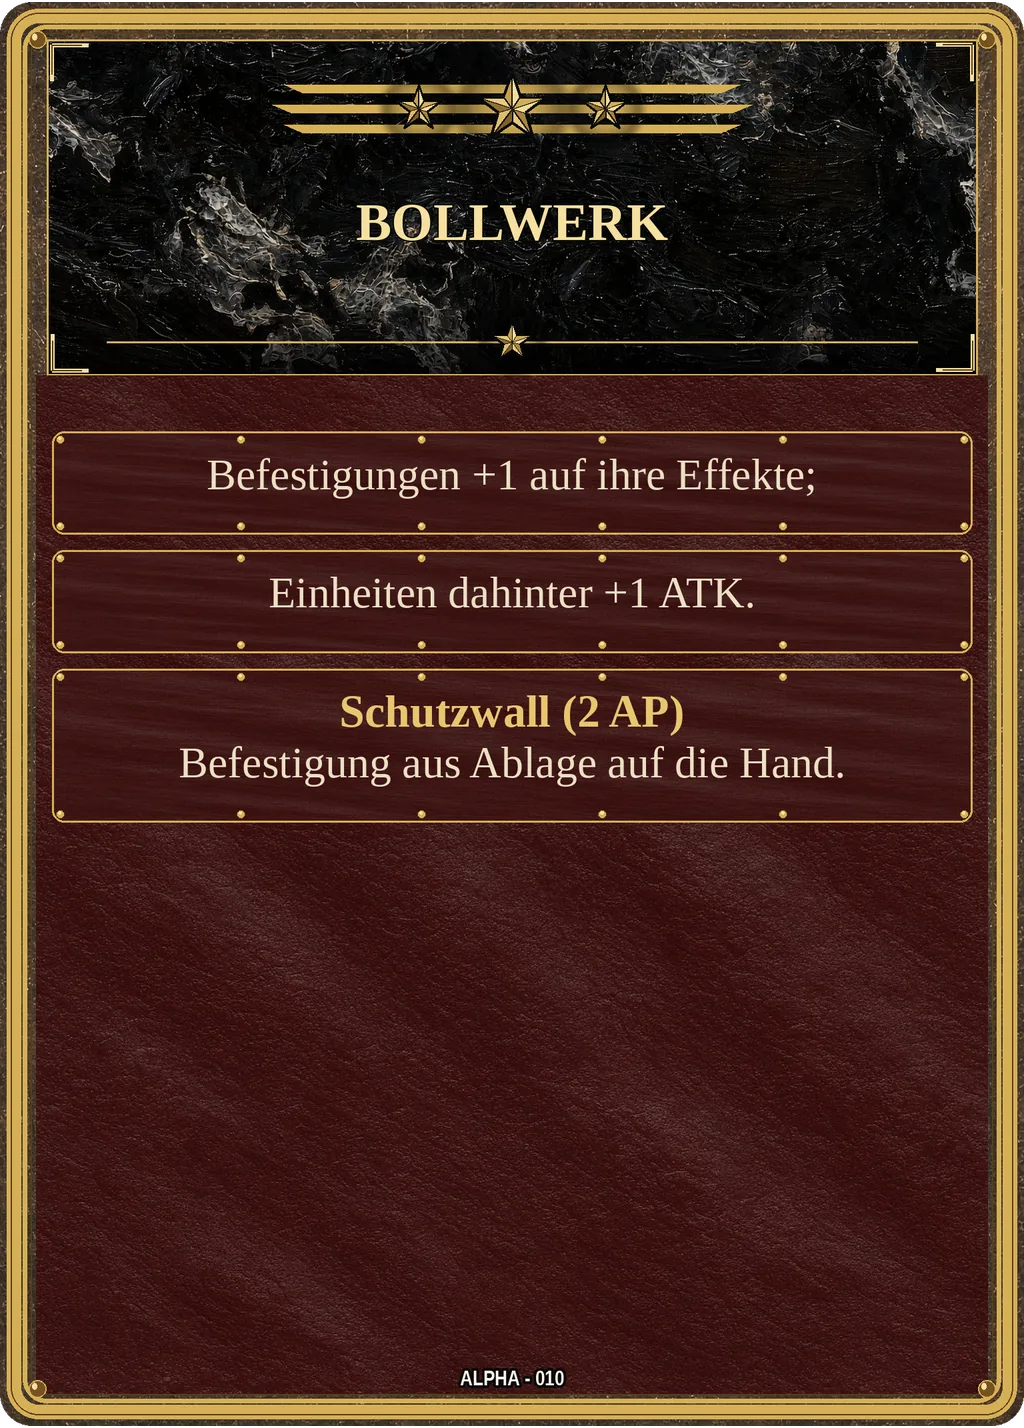
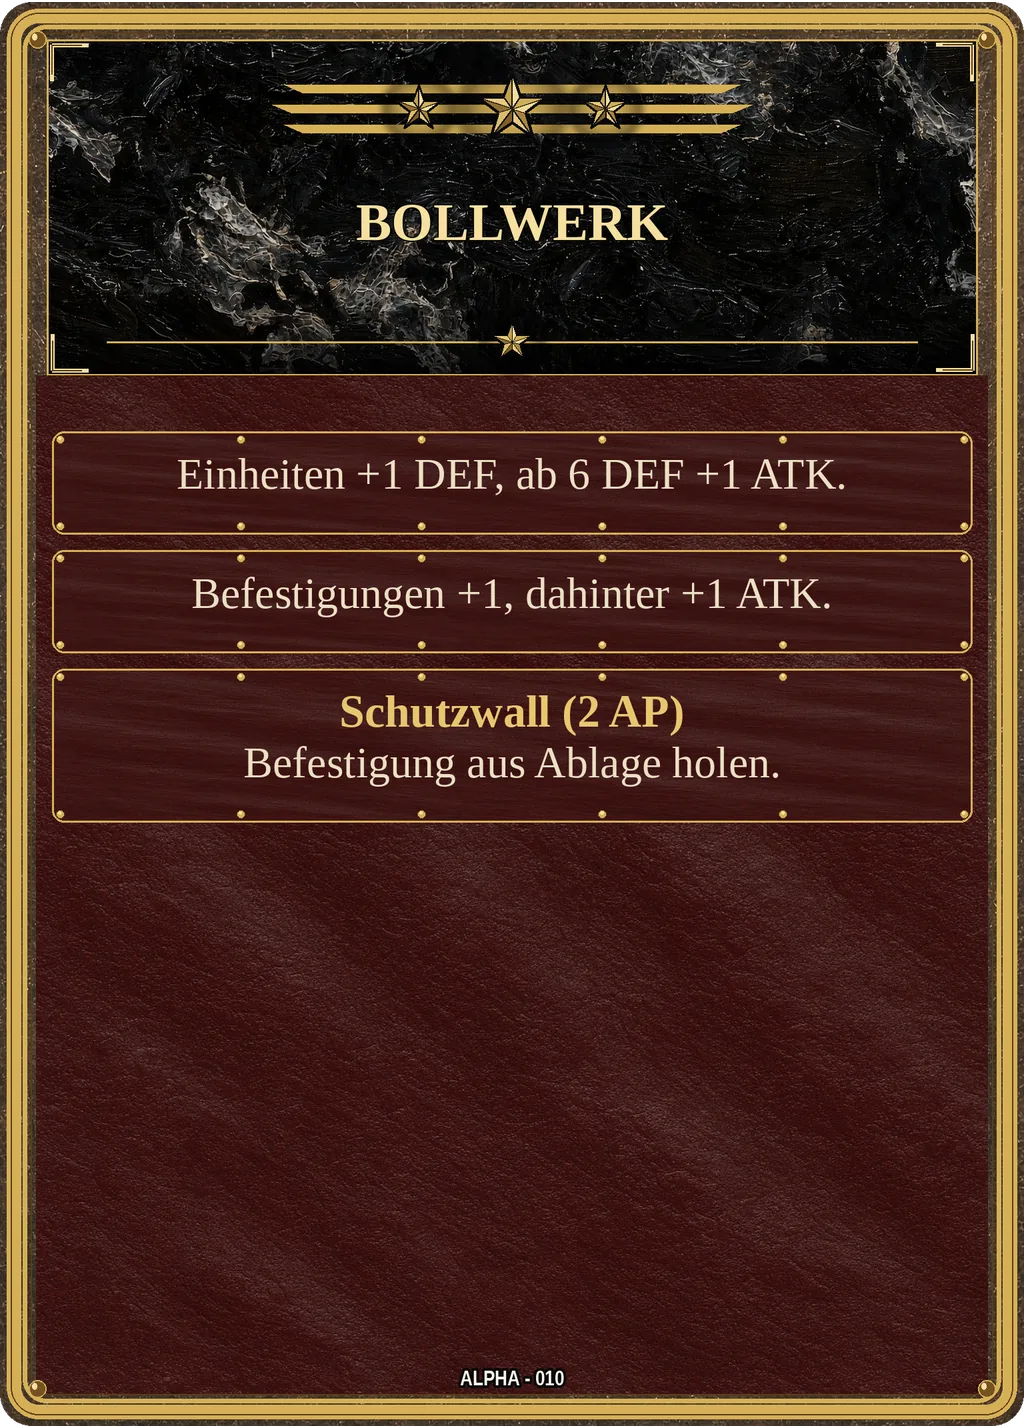
t285 Version 0.6e: VERSION, version.js, file_version_info 0.6.4.0, Hilfe/README/LIESMICH/Docs, CHANGELOG 0.6e, docs/balance/BALANCE_T285.md (Nutzungsraten, vorher/nachher), Doktrin-Flächen Bollwerk/Sicherer Nachschub neu gerendert; Cache alpha46a

Changed region(s): [[0.1562, 0.3081, 0.8125, 0.3697], [0.1562, 0.5238, 0.8125, 0.5546], [0.1875, 0.4006, 0.8125, 0.4314]]

diff --git a/Division_Command/web/index.html b/Division_Command/web/index.html
@@ -6,7 +6,7 @@
   <meta name="apple-mobile-web-app-capable" content="yes">
   <meta name="mobile-web-app-capable" content="yes">
   <meta name="apple-mobile-web-app-status-bar-style" content="black-translucent">
-  <title>Division Command 0.6d Alpha</title>
+  <title>Division Command 0.6e Alpha</title>
   <link rel="manifest" href="manifest.json">
   <meta name="theme-color" content="#12140f">
   <link rel="stylesheet" href="css/app.css?v=t265">
@@ -26,7 +26,7 @@
   <link rel="stylesheet" href="css/ui-system.css?v=t280b">
   <link rel="stylesheet" href="css/ui-screens.css?v=t281">
   <link rel="stylesheet" href="css/ui-table.css?v=alpha44a">
-  <link rel="stylesheet" href="css/table-hud.css?v=alpha45a">
+  <link rel="stylesheet" href="css/table-hud.css?v=alpha46a">
   <style>
     /* Erster Frame: Logo und Startknopf unsichtbar, Version noch nicht */
     .title-brand .ver-big { display: none !important; }
@@ -47,7 +47,7 @@
   <template id="match-tpl">
   <div id="app">
     <header class="topbar">
-      <h1>DIVISION COMMAND <span class="ver">0.6d α</span></h1>
+      <h1>DIVISION COMMAND <span class="ver">0.6e α</span></h1>
       <div class="hud-center">
         <div class="hud-scn"><span id="hud-scn">Gefecht</span><span class="nowplay" id="nowplay"></span></div>
         <div class="meta" id="turnmeta">Lobby</div>
@@ -178,7 +178,7 @@
   <audio id="bgm" autoplay preload="auto" src="assets/audio/menue/Division%20Command%20(Remastered).wav"></audio>
   <audio id="bgm-battle" preload="auto"></audio>
   <div id="kick-veil"><p id="kick-msg">Viel Glück</p></div>
-  <div id="dc-version">Alpha 0.6d</div>
+  <div id="dc-version">Alpha 0.6e</div>
 
   <div id="title-root" class="boot-intro">
       <div class="title-world" id="title-world" aria-hidden="true">
@@ -191,7 +191,7 @@
       </div>
       <div class="title-brand">
         <img class="title-logo" src="assets/title-logo.png?v=6" alt="Division Command" width="1381" height="507">
-        <p class="sub ver-big" hidden>Alpha 0.6d</p>
+        <p class="sub ver-big" hidden>Alpha 0.6e</p>
       </div>
     <div class="title-panel" id="menu-panel">
       <div id="scr-boot" class="screen on splash">
@@ -282,7 +282,7 @@
 
       <div id="scr-library" class="screen">
         <h1 class="page-title">BIBLIOTHEK</h1>
-        <p class="tiny" id="lib-build">Stand 0.6d</p>
+        <p class="tiny" id="lib-build">Stand 0.6e</p>
         <p class="tiny lib-hint">Klick = große Ansicht · Doppelklick = eine Kopie ins Deck · im Deck: Doppelklick legt zurück. Kopien: Gold 1× · Silber 2× · Bronze 4× · 2 verschiedene Doktrinen.</p>
         <div class="lib-wrap">
           <div class="lib-main">
@@ -524,7 +524,7 @@
             </div>
 <button type="button" data-hilfe="stand">Entwicklungsstand</button>
             <div class="hilfe-sub" data-for="stand">
-              <button type="button" data-jump="version">Version 0.6d</button>
+              <button type="button" data-jump="version">Version 0.6e</button>
               <button type="button" data-jump="stand-engine">Regeln & Engine</button>
               <button type="button" data-jump="karten">Karten & Grafik</button>
               <button type="button" data-jump="stand-bot">Bot & Balance</button>
@@ -772,8 +772,8 @@
 
             <article class="hilfe-page dossier" id="hilfe-stand">
               <p class="tiny">Stand 12.&nbsp;November&nbsp;2026, nachgezählt im Code auf <code>main</code> nach t270 (Analyse t265, Kartenreparatur t267, Balance und Eindeutigkeit t268, einheitliche Schrift t270, Analyse t271). Alle Zahlen stammen aus Katalog, Tests und Messdateien im Repo.</p>
-              <h2 id="version">Version 0.6d Alpha</h2>
-              <p>Gesetzte Version 0.6d (Tag v0.6d vom 13.&nbsp;11.&nbsp;2026). Gegenüber 0.6c: jede Karte ist eindeutig (keine Zwillinge mit gleichen Werten und gleichem Text), Doktrinen Stoßtrupp, Lauer und Gegenstoß nachjustiert, Nationen per Starterdeck-Tausch und Poolwerten näher an 50&nbsp;%, Hotseat-Endbildschirm neutral („SIEGER: …“). Weiter keine 0.7: der Anzug-Vorteil in einheitenlastigen Decks bleibt offen, und ein menschlicher Playtest fehlt.</p>
+              <h2 id="version">Version 0.6e Alpha</h2>
+              <p>Gesetzte Version 0.6e (Tag v0.6e vom 13.&nbsp;11.&nbsp;2026). Gegenüber 0.6d: Die KI setzt aktive Doktrin-Fähigkeiten ein (Feldreparatur, Schutzwall, Überschuss). Feldreparatur und Überschuss wirken jetzt wie gedruckt. Bollwerk (+1 ATK ab 6 DEF) und Sicherer Nachschub (Feldreparatur heilt alle gepanzerten Einheiten um 2) liegen näher an 50&nbsp;%. Weiter keine 0.7: Der Anzug-Vorteil in einheitenlastigen Decks bleibt bewusst, und ein menschlicher Playtest fehlt.</p>
               <h2 id="stand-engine">Regeln & Engine</h2>
               <ul>
                 <li>Spielbar: Front 3×3 je Seite, Support, Niemandsland, AP-Ökonomie (5 je Zug, Rest als Reaktionsreserve), Angriff mit Gegenschlag, Eingraben, Steilfeuer I–V, verdeckte Fallen bei Feindkontakt, Doktrinen, Trophy-Sieg (5 SP, Sicherheitsnetz Zug 26/28).</li>
@@ -883,6 +883,7 @@
                   <tr><td>12.&nbsp;11.</td><td>t271: Analyse und Stand: keine Rückschritte, Balance bestätigt, Browser-Test 5/5 Seeds; Feindkontakt bietet nur noch nutzbare Reaktionen an.</td></tr>
                   <tr><td>12.&nbsp;11.</td><td>t283 / Version 0.6c: LAN mit getrennter Sicht je Spieler, Mulligan, Deck 60&nbsp;+&nbsp;2, 6+-AP-Karten auf 5 AP, Doktrinen und Pools nachjustiert, Erstschadenschutz-Text, CI.</td></tr>
                   <tr><td>13.&nbsp;11.</td><td>t284 / Version 0.6d: Zwillingskarten unterschieden, Doktrinen und Nationen näher an 50&nbsp;%, Hotseat-Endbildschirm neutral.</td></tr>
+                  <tr><td>13.&nbsp;11.</td><td>t285 / Version 0.6e: KI nutzt aktive Doktrin-Fähigkeiten, Feldreparatur und Überschuss regelkonform, Bollwerk und Sicherer Nachschub näher an 50&nbsp;%.</td></tr>
                 </tbody>
               </table>
               <h2 id="fortschritt-meilensteine">Meilensteine bis Early Access</h2>
@@ -963,30 +964,30 @@
 
   <script src="js/ui/title-fx.js?v=05ax"></script>
   <script>window.DC_FOLDER_PNG = true;</script>
-  <script src="js/version.js?v=alpha45a"></script>
+  <script src="js/version.js?v=alpha46a"></script>
   <script src="js/data/keywords.js?v=tac1"></script>
-  <script src="js/data/sets/types/doktrinen.js?v=alpha45a"></script>
+  <script src="js/data/sets/types/doktrinen.js?v=alpha46a"></script>
   <script src="js/data/sets/types/tokens.js?v=t1"></script>
-  <script src="js/data/sets/types/infanterie.js?v=alpha45a"></script>
-  <script src="js/data/sets/types/panzer.js?v=alpha45a"></script>
-  <script src="js/data/sets/types/artillerie.js?v=alpha45a"></script>
-  <script src="js/data/sets/types/aufklaerung.js?v=alpha45a"></script>
-  <script src="js/data/sets/types/elite.js?v=alpha45a"></script>
-  <script src="js/data/sets/types/unterstuetzung.js?v=alpha45a"></script>
-  <script src="js/data/sets/types/soforteinsatz.js?v=alpha45a"></script>
+  <script src="js/data/sets/types/infanterie.js?v=alpha46a"></script>
+  <script src="js/data/sets/types/panzer.js?v=alpha46a"></script>
+  <script src="js/data/sets/types/artillerie.js?v=alpha46a"></script>
+  <script src="js/data/sets/types/aufklaerung.js?v=alpha46a"></script>
+  <script src="js/data/sets/types/elite.js?v=alpha46a"></script>
+  <script src="js/data/sets/types/unterstuetzung.js?v=alpha46a"></script>
+  <script src="js/data/sets/types/soforteinsatz.js?v=alpha46a"></script>
   <script src="js/data/sets/types/ausruestung.js?v=alpha44a"></script>
-  <script src="js/data/sets/types/nation_pools.js?v=alpha45a"></script>
+  <script src="js/data/sets/types/nation_pools.js?v=alpha46a"></script>
   <script src="js/data/sets/types/tactical.js?v=tac1"></script>
-  <script src="js/data/decks.js?v=alpha45a"></script>
+  <script src="js/data/decks.js?v=alpha46a"></script>
   <script src="js/data/image-manifest.js?v=gfx2"></script>
   <script src="js/data/catalog.js?v=alpha44a"></script>
   <script src="js/data/card-faces.js?v=gfx2"></script>
   <script src="js/data/audio-data.js?v=endscreen1"></script>
-  <script src="js/engine/engine.js?v=alpha44a"></script>
+  <script src="js/engine/engine.js?v=alpha46a"></script>
   <script src="js/engine/victory_trophy.js?v=alpha44a"></script>
-  <script src="js/engine/doctrine_runtime.js?v=alpha45a"></script>
+  <script src="js/engine/doctrine_runtime.js?v=alpha46a"></script>
   <script src="js/engine/tactical_runtime.js?v=tac1"></script>
-  <script src="js/ai/bot.js?v=alpha44a"></script>
+  <script src="js/ai/bot.js?v=alpha46a"></script>
   <script src="js/playtest/store.js?v=nochat1"></script>
   <script src="js/playtest/logger.js?v=alpha44a"></script>
   <script src="js/playtest/panel.js?v=pt2"></script>
@@ -1000,8 +1001,8 @@
   <script src="js/ui/table-effects.js?v=alpha44a"></script>
   <script src="js/ui/table-stencil.js?v=sc4"></script>
   <script src="js/ui/table-camera.js?v=alpha44a"></script>
-  <script src="js/ui/end-screen.js?v=alpha45a"></script>
-  <script src="js/ui/app.js?v=alpha45a"></script>
+  <script src="js/ui/end-screen.js?v=alpha46a"></script>
+  <script src="js/ui/app.js?v=alpha46a"></script>
   <script src="js/ui/reset.js?v=t278"></script>
   <script src="js/tutorial/scenario.js?v=t275"></script>
   <script src="js/ui/tutorial.js?v=alpha44a"></script>
@@ -1015,9 +1016,9 @@
       navigator.serviceWorker.register('sw.js?v=mix1').catch(function () {});
     }
     (function () {
-      document.title = window.DC_BUILD_LABEL || 'Division Command 0.6d Alpha';
+      document.title = window.DC_BUILD_LABEL || 'Division Command 0.6e Alpha';
       var dcVer = document.getElementById('dc-version');
-      if (dcVer) dcVer.textContent = 'Alpha ' + (window.DC_VERSION || '0.6d');
+      if (dcVer) dcVer.textContent = 'Alpha ' + (window.DC_VERSION || '0.6e');
       var bgm = document.getElementById('bgm');
 
       function dcBarToCommand() {

diff --git a/tests/test_table_hud_t279.js b/tests/test_table_hud_t279.js
@@ -13,8 +13,8 @@ const sw = fs.readFileSync(path.join(web, 'sw.js'), 'utf8');
 // Stylesheet zuletzt geladen und offline verfügbar
 const links = [...html.matchAll(/<link rel="stylesheet" href="([^"?]+)/g)].map(m => m[1]);
 assert.equal(links[links.length - 1], 'css/table-hud.css', 'table-hud.css als letztes Stylesheet');
-assert(sw.includes("'./css/table-hud.css'") && sw.includes("'divcmd-alpha45a'"), 'Offline-Cache alpha45a mit table-hud.css');
-assert(html.includes('js/ui/app.js?v=alpha45a'));
+assert(sw.includes("'./css/table-hud.css'") && sw.includes("'divcmd-alpha46a'"), 'Offline-Cache alpha46a mit table-hud.css');
+assert(html.includes('js/ui/app.js?v=alpha46a'));
 
 // Musiktitel nicht mehr absolut über der Kopfleiste, Höhenraster mit allen sieben Zeilen
 assert(/\.hud-scn \.nowplay \{[^}]*position: static !important/.test(css), 'Musiktitel im Fluss');
@@ -55,4 +55,4 @@ const before = $('#my-front-label').innerHTML;
 w.dcRender();
 assert.equal($('#my-front-label').innerHTML, before);
 assert.equal(h.errors.filter(e => !/requestAnimationFrame/.test(String(e))).length, 0, h.errors.join('\n'));
-console.log('PASS table hud t279: Kopfleiste dreiteilig, Plaketten mit AP/SP/Hand, Protokoll angedockt, Höhenraster, Cache alpha45a');
+console.log('PASS table hud t279: Kopfleiste dreiteilig, Plaketten mit AP/SP/Hand, Protokoll angedockt, Höhenraster, Cache alpha46a');

diff --git a/tests/test_graphics.js b/tests/test_graphics.js
@@ -37,7 +37,7 @@ for(const r of records.filter(r=>r.ready && r.type!=='Token')){
 const unfinished=records.find(r=>r.provenance==='missing_illustration');if(unfinished)assert(collection.get(unfinished.id).querySelector('.card-ph'));
 // The source model remains unchanged: presentation manifest alone retires a placeholder.
 assert.equal(c.art_status,'platzhalter');assert(!c.image);
-const html=fs.readFileSync(path.join(WEB,'index.html'),'utf8');assert(html.indexOf('js/data/card-faces.js')>html.indexOf('js/data/catalog.js'));assert(html.indexOf('js/data/card-faces.js')<html.indexOf('js/ui/app.js'));assert(html.includes('app.js?v=alpha45a'));
-assert(fs.readFileSync(path.join(WEB,'sw.js'),'utf8').includes('divcmd-alpha45a'));
+const html=fs.readFileSync(path.join(WEB,'index.html'),'utf8');assert(html.indexOf('js/data/card-faces.js')>html.indexOf('js/data/catalog.js'));assert(html.indexOf('js/data/card-faces.js')<html.indexOf('js/ui/app.js'));assert(html.includes('app.js?v=alpha46a'));
+assert(fs.readFileSync(path.join(WEB,'sw.js'),'utf8').includes('divcmd-alpha46a'));
 console.log('PASS graphics UI: ready-only routing; full-resolution hand/slot/inspect/collection/deckbuilder; hidden privacy; no unfinished artwork relabelled; rule records unchanged');
 h.dom.window.close();

diff --git a/tests/test_balance_t240.js b/tests/test_balance_t240.js
@@ -22,6 +22,6 @@ const d = w.DC_NATION_DECKS.Caldris;
 ['schildtraeger', 'sanitaetspanzer', 'oberste_fuersorge', 'schild_heben', 'schutzschild_leicht'].forEach((k) => assert(!d.cards.includes('dc_np_caldris_' + k), 'nicht im Starterdeck: ' + k));
 const fs = require('fs'); const path = require('path');
 const R = path.join(__dirname, '..', 'Division_Command');
-assert(/DC_VERSION = '0\.6d'/.test(fs.readFileSync(path.join(R, 'web/js/version.js'), 'utf8')));
-assert.strictEqual(fs.readFileSync(path.join(R, 'VERSION'), 'utf8').trim().split(/\s/)[0].replace(/^v/, ''), '0.6d'); // t284: Version 0.6d
-console.log('PASS balance t240: 5 Caldris-Poolkarten −1 DEF, Starterdeck unberührt, Version (aktuell 0.6d)');
+assert(/DC_VERSION = '0\.6e'/.test(fs.readFileSync(path.join(R, 'web/js/version.js'), 'utf8')));
+assert.strictEqual(fs.readFileSync(path.join(R, 'VERSION'), 'utf8').trim().split(/\s/)[0].replace(/^v/, ''), '0.6e'); // t285: Version 0.6e
+console.log('PASS balance t240: 5 Caldris-Poolkarten −1 DEF, Starterdeck unberührt, Version (aktuell 0.6e)');

diff --git a/tests/test_table_stencil.js b/tests/test_table_stencil.js
@@ -17,7 +17,7 @@ const tex = fs.readFileSync(path.join(WEB, 'assets/table/stencil-oil.webp'));
 assert(tex.slice(0, 4).toString() === 'RIFF' && tex.slice(8, 12).toString() === 'WEBP' && tex.length > 50000, 'Öltextur vorhanden');
 for (const m of css.matchAll(/url\(\.\.\/([^)]+)\)/g)) assert(fs.existsSync(path.join(WEB, m[1])), '404: ' + m[1]);
 assert(/table-stencil\.js\?v=/.test(fs.readFileSync(path.join(WEB, 'index.html'), 'utf8')));
-assert(/const CACHE = 'divcmd-alpha45a'/.test(fs.readFileSync(path.join(WEB, 'sw.js'), 'utf8')));
+assert(/const CACHE = 'divcmd-alpha46a'/.test(fs.readFileSync(path.join(WEB, 'sw.js'), 'utf8')));
 // z-Reihenfolge: Gemälde -3 < Licht -2 < Schablone -1 < Karten (auto)
 const z = sel => Number(css.match(new RegExp(sel.replace(/[.>]/g, m => '\\' + m) + ' \\{[^}]*z-index: (-?\\d+)'))[1]);
 assert(z('.cam-world > .ot-desk') < z('.cam-world > .ot-slotlight') && z('.cam-world > .ot-slotlight') < z('.cam-world > .ot-stencil') && z('.cam-world > .ot-stencil') < 0, 'Schichtfolge');

diff --git a/tests/test_officer_table.js b/tests/test_officer_table.js
@@ -72,7 +72,7 @@ assert(new Set(durs.match(/[\d.]+s/g)).size >= 5, 'mehrere unterschiedliche Anim
 assert(/at 74\.9% 35\.2%/.test(css), 'Licht vom Lampenstandort');
 const html = fs.readFileSync(path.join(WEB, 'index.html'), 'utf8');
 assert(/css\/officer-table\.css\?v=/.test(html), 'officer-table.css eingebunden');
-assert(/const CACHE = 'divcmd-alpha45a'/.test(fs.readFileSync(path.join(WEB, 'sw.js'), 'utf8')), 'SW-Cache angehoben');
+assert(/const CACHE = 'divcmd-alpha46a'/.test(fs.readFileSync(path.join(WEB, 'sw.js'), 'utf8')), 'SW-Cache angehoben');
 assert(/prefers-reduced-motion: reduce\)\s*\{[^}]*\.ot-glow[^}]*animation: none/.test(css), 'Media-Query stoppt Flackern');
 assert(/data-flicker="off"\] \.ot-glow, \.cam-viewport\[data-flicker="off"\] \.ot-glint/.test(css), 'JS-Flag stoppt Flackern');
 assert(/\.ot-desk \{\s*position: absolute; z-index: -3; pointer-events: none/.test(css) && /\.ot-desk > div \{[^}]*pointer-events: none/.test(css), 'Bild/Licht nie klickbar');

diff --git a/tests/test_reset_t278.js b/tests/test_reset_t278.js
@@ -104,6 +104,6 @@ function fakeStorage(init) {
   assert.ok(html.includes('js/ui/reset.js') && html.includes('css/reset.css'), 'eingebunden');
   assert.ok(!/localStorage\.clear\(\)/.test(fs.readFileSync(path.join(WEB, 'js/ui/reset.js'), 'utf8')), 'kein globales clear()');
   const sw = fs.readFileSync(path.join(WEB, 'sw.js'), 'utf8');
-  assert.ok(sw.includes('js/ui/reset.js') && sw.includes("'divcmd-alpha45a'"), 'Offline-Cache');
+  assert.ok(sw.includes('js/ui/reset.js') && sw.includes("'divcmd-alpha46a'"), 'Offline-Cache');
   console.log('PASS reset t278: ' + keys.size + ' Speicherschlüssel mit dc_, Löschen nach Präfix + IndexedDB, danach Erststart');
 })().catch((e) => { console.error(e); process.exit(1); });

diff --git a/tests/test_ui_table_t280b.js b/tests/test_ui_table_t280b.js
@@ -22,7 +22,7 @@ const links = [...html.matchAll(/<link rel="stylesheet" href="([^"?]+)/g)].map((
 assert(links.indexOf('css/ui-screens.css') < links.indexOf('css/ui-table.css'), 'ui-table nach ui-screens');
 assert(links.indexOf('css/ui-table.css') < links.indexOf('css/table-hud.css'), 'table-hud bleibt zuletzt');
 assert.equal(links[links.length - 1], 'css/table-hud.css');
-assert(sw.includes("'divcmd-alpha45a'") && html.includes('app.js?v=alpha45a'), 'Cache alpha45a');
+assert(sw.includes("'divcmd-alpha46a'") && html.includes('app.js?v=alpha46a'), 'Cache alpha46a');
 
 /** Bildgröße aus einem WebP-Kopf. */
 function webpSize(buf) {

diff --git a/tests/test_libzoom_t281.js b/tests/test_libzoom_t281.js
@@ -15,7 +15,7 @@ const L = require('../scripts/nation_pools/load_game.js');
 const WEB = L.WEB;
 const html = fs.readFileSync(path.join(WEB, 'index.html'), 'utf8');
 const sw = fs.readFileSync(path.join(WEB, 'sw.js'), 'utf8');
-assert(sw.includes("'divcmd-alpha45a'") && html.includes('app.js?v=alpha45a'), 'Cache alpha45a');
+assert(sw.includes("'divcmd-alpha46a'") && html.includes('app.js?v=alpha46a'), 'Cache alpha46a');
 assert(/Pfeiltasten/.test(html.match(/<h2 id="library">[\s\S]*?<h2 id="user">/)[0]), 'Hilfe nennt das Blättern');
 
 const dom = new JSDOM(html, { url: 'http://localhost/', runScripts: 'outside-only' });

diff --git a/tests/test_ui_screens_t280.js b/tests/test_ui_screens_t280.js
@@ -21,7 +21,7 @@ assert(links.indexOf('css/ui-system.css') >= 0 && links.indexOf('css/ui-system.c
 assert(links.indexOf('css/ui-screens.css') < links.indexOf('css/table-hud.css'), 'Tisch-HUD bleibt zuletzt');
 assert(html.includes('js/ui/ui-screens.js'), 'ui-screens.js geladen');
 assert(html.includes('poster="assets/title-back-poster.webp"'), 'Standbild für das Titelvideo');
-assert(sw.includes("'divcmd-alpha45a'"));
+assert(sw.includes("'divcmd-alpha46a'"));
 
 /** Liest die Bildgröße aus einem WebP-Kopf (VP8, VP8L, VP8X). */
 function webpSize(buf) {

diff --git a/Division_Command/web/js/ui/app.js b/Division_Command/web/js/ui/app.js
@@ -600,7 +600,7 @@
       eventPlaying = false; eventFlying = false;
       var ov = $('#overlay');
       if (ov) ov.style.display = 'none';
-      document.title = (window.DC_BUILD_LABEL || 'Division Command 0.6d Alpha');
+      document.title = (window.DC_BUILD_LABEL || 'Division Command 0.6e Alpha');
       window.dcTimerHold = true;
       render();
       // t256: Münzwurf erst nach dem Einblend-Countdown zeigen. Vorher lag er unter dem

diff --git a/tests/test_library_filters.js b/tests/test_library_filters.js
@@ -193,8 +193,8 @@ assert.equal(ids().length, all);
   lib.render();
 }
 
-assert(fs.readFileSync(path.join(WEB, 'sw.js'), 'utf8').includes('divcmd-alpha45a'));
-assert(html.includes('app.js?v=alpha45a'));
+assert(fs.readFileSync(path.join(WEB, 'sw.js'), 'utf8').includes('divcmd-alpha46a'));
+assert(html.includes('app.js?v=alpha46a'));
 assert(html.includes('id="lib-rarity"'));
 assert(html.includes('id="lib-tag-panel"'));
 
